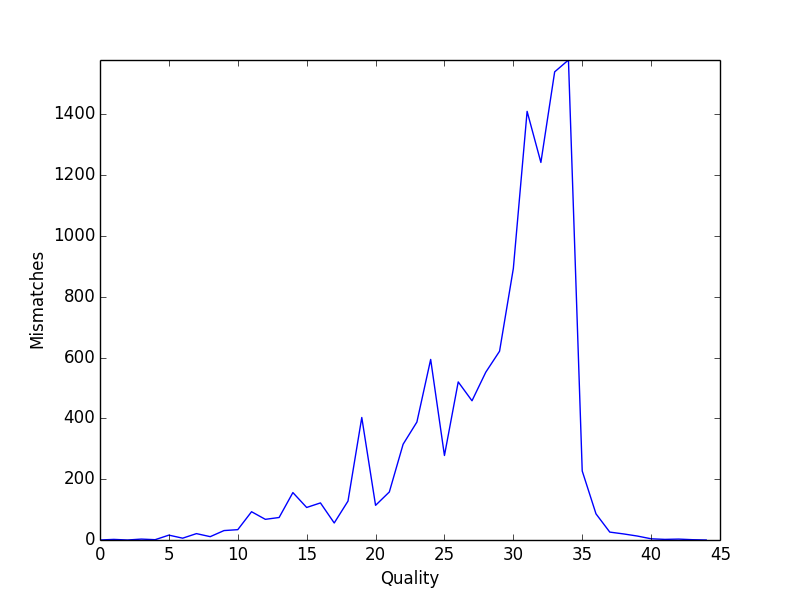
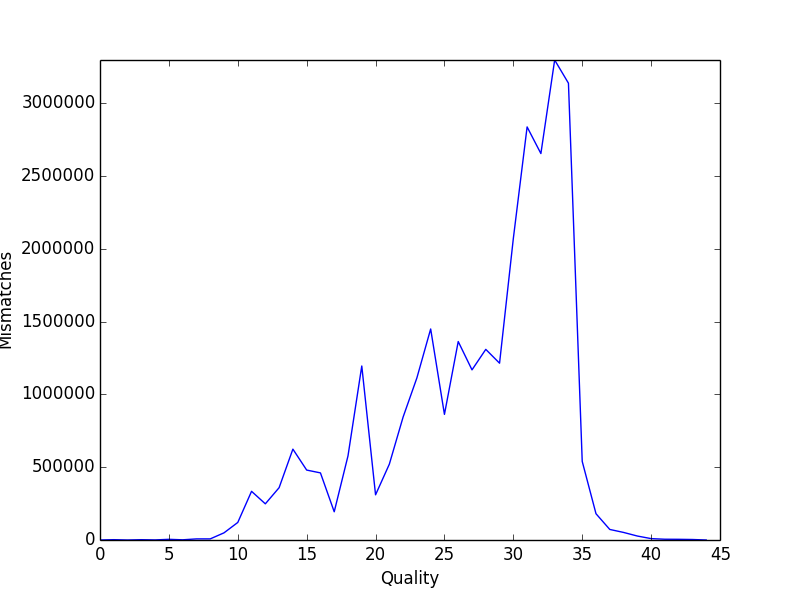
Added the rest of the code, graphs, results

diff --git a/src/hw3/hw3.py b/src/hw3/hw3.py
@@ -68,8 +68,10 @@ def get_genome_coverage(bam, prefix):
 
 MAX_INDEL = 200
 
+MATCH = 0
 INSERTION = 1
 DELETION = 2
+SOFT_CLIPPED = 4
 MISMATCH = 8
 
 
@@ -93,13 +95,13 @@ def get_indel_distribution(bam, prefix):
 
 
 def get_info_from_bam_reference(bam, reference_file, prefix=BWA_PREFIX):
-    reference = SeqIO.parse(reference_file, 'fasta')
+    reference = (list(SeqIO.parse(reference_file, 'fasta'))[0]).seq
     # get_genome_coverage(bam, prefix)
     # get homopolymer stuff
     # get_indel_distribution(bam, prefix)
     get_quality_insertions(bam, prefix)
     get_quality_mismatches(bam, reference, prefix)
-    pass
+    get_mismatch_frequencies(bam, reference, prefix)
 
 
 MAX_QUALITY = 50
@@ -129,13 +131,12 @@ def get_quality_insertions(bam, prefix):
 
 
 def get_quality_mismatches(bam, reference, prefix):
-    genome = str(list(reference)[0])
     mismatch_quality = [0 for _ in xrange(MAX_QUALITY)]
     max_quality = 0
     for read in bam.fetch():
         reference_sequence = ""
         for start, end in read.get_blocks():
-            reference_sequence += genome[start: end]
+            reference_sequence += reference[start: end]
         read_sequence = read.query_alignment_sequence
         read_quality = read.query_alignment_qualities
         for i in xrange(len(reference_sequence)):
@@ -153,8 +154,50 @@ def get_quality_mismatches(bam, reference, prefix):
     plt.clf()
 
 
-def get_mismatch_frequencies(bam, reference, prefix):
-    pass
+NUCLEOTIDES = {'A', 'C', 'T', 'G'}
+
+
+def get_mismatch_frequencies(bam, reference_sequence, prefix):
+    mismatches = {"A": {"C": 0, "T": 0, "G": 0, None: 0},
+                  "C": {"A": 0, "T": 0, "G": 0, None: 0},
+                  "G": {"A": 0, "C": 0, "T": 0, None: 0},
+                  "T": {"A": 0, "C": 0, "G": 0, None: 0},
+                  None: {"A": 0, "C": 0, "G": 0, "T": 0}}
+
+    def filter_soft_clipped(cigar_tuples):
+        return list(filter(lambda (t, l): t != SOFT_CLIPPED, cigar_tuples))
+
+    for read in bam.fetch():
+        reference_index = read.reference_start
+        read_index = 0
+        read_sequence = read.query_alignment_sequence
+        for t, length in filter_soft_clipped(read.cigartuples):
+            if t == MATCH:
+                for i in xrange(length):
+                    if reference_sequence[reference_index + i] != read_sequence[read_index + i] and reference_sequence[
+                       reference_index + i] != "N" and read_sequence[read_index + i] != "N":
+                        mismatches[reference_sequence[reference_index + i]][read_sequence[read_index + i]] += 1
+                reference_index += length
+                read_index += length
+            if t == INSERTION:
+                for i in xrange(length):
+                    mismatches[None][read_sequence[read_index + i + 1]] += 1
+                read_index += length
+            if t == DELETION:
+                for i in xrange(length):
+                    mismatches[reference_sequence[reference_index + i + 1]][None] += 1
+                reference_index += length
+
+    print("*\t{0}\t{1}\t{2}\t{3}".
+          format(mismatches["A"]["C"], mismatches["A"]["T"], mismatches["A"]["G"], mismatches["A"][None]))
+    print("{0}\t*\t{1}\t{2}\t{3}".
+          format(mismatches["C"]["A"], mismatches["C"]["T"], mismatches["C"]["G"], mismatches["C"][None]))
+    print("{0}\t{1}\t*\t{2}\t{3}".
+          format(mismatches["G"]["A"], mismatches["G"]["C"], mismatches["G"]["T"], mismatches["G"][None]))
+    print("{0}\t{1}\t{2}\t*\t{3}".
+          format(mismatches["T"]["A"], mismatches["T"]["C"], mismatches["T"]["G"], mismatches["T"][None]))
+    print("{0}\t{1}\t{2}\t{3}\t*".
+          format(mismatches[None]["A"], mismatches[None]["C"], mismatches[None]["T"], mismatches[None]["G"]))
 
 
 if __name__ == '__main__':
